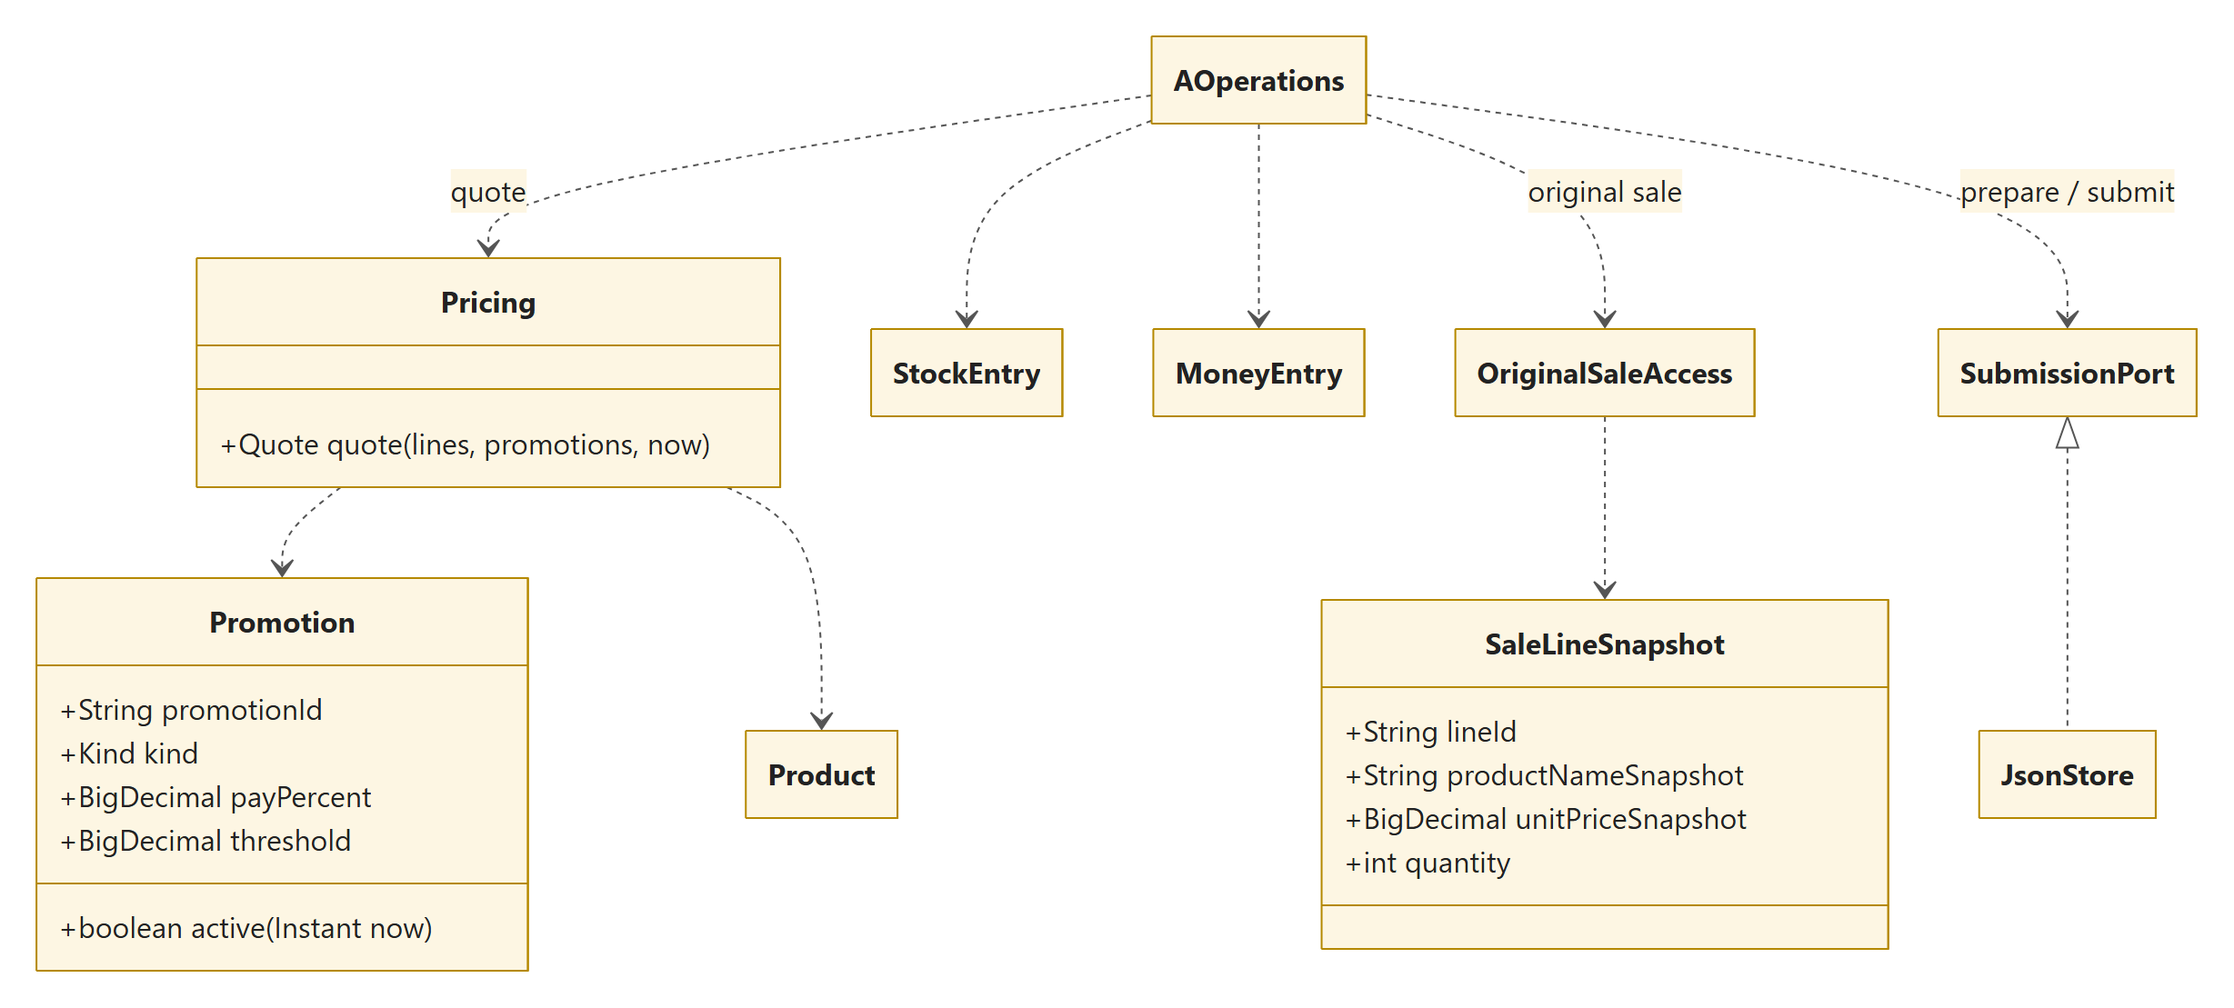
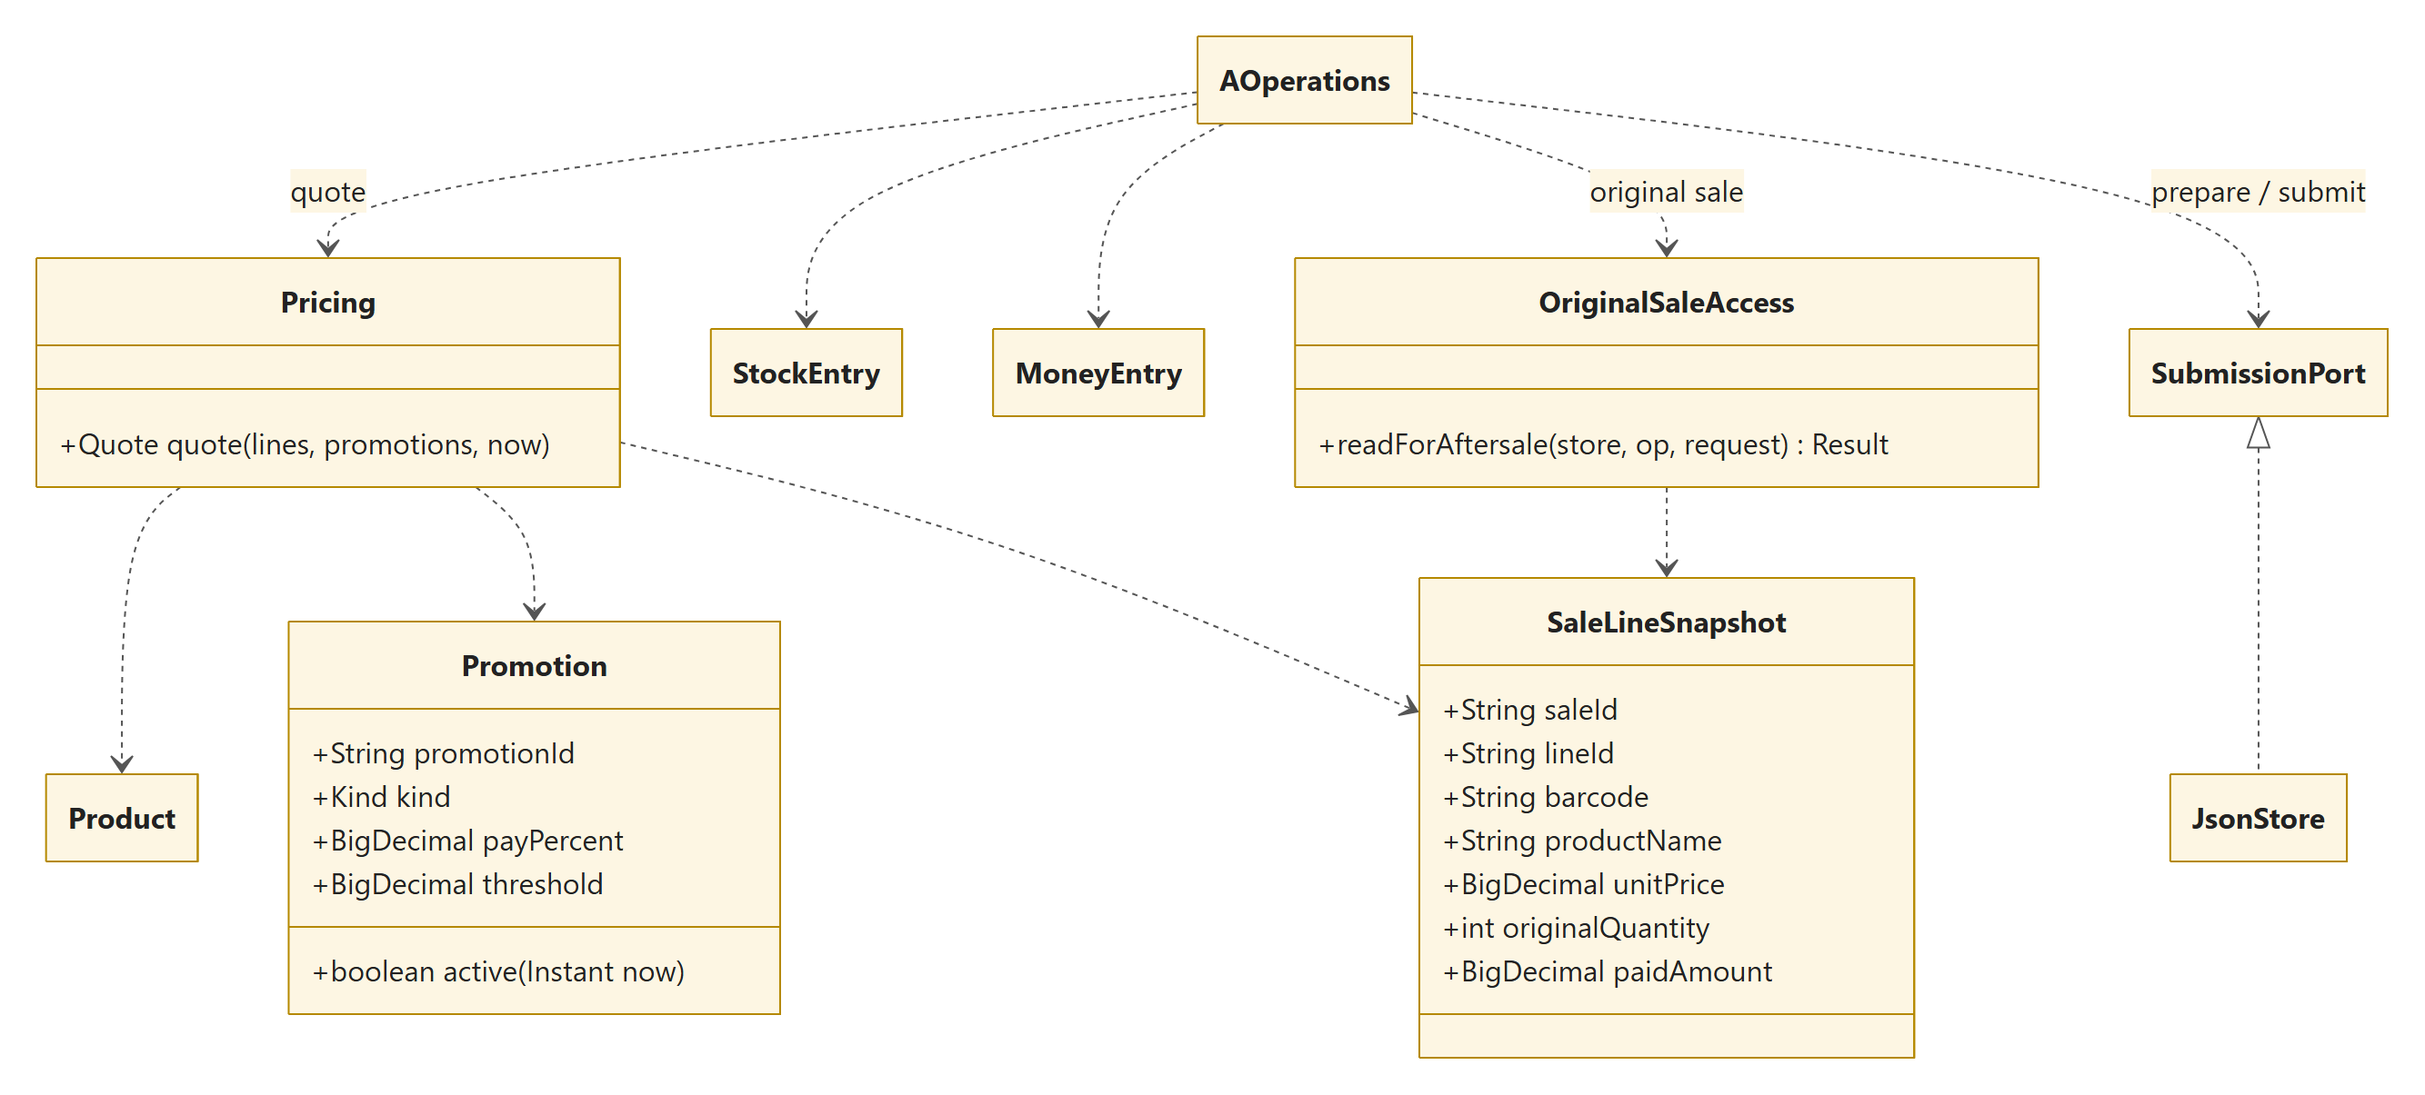
fix: align report diagrams with code and simplify the build entry
- report diagrams 01/02/04/05/07 corrected against the delivered code:
  DocumentHeader timestamps are strings, SaleLineSnapshot fields match the
  record, aftersale shows SharedOperations -> engine(factory)/submission flow
  instead of a non-existent engine orchestration, reversal uses
  EffectiveDependencies.blocker directly and shows the validator template,
  shared figure adds CommitValidator plus the two concrete subclasses.
- docs/README: IF-11 row now states the proposal is historical and implemented.
- pom: Enforcer accepts JDK 17+, exec-maven-plugin declares Main so
  'mvn clean compile exec:java' works; Main accepts JDK >= 17.
- run.cmd: seeds data/snapshot.json from demo preset, builds when missing, runs.
- demo/: tracked preset snapshot (demo accounts manager01/clerk01/admin01).
- README: three-step quick start, JDK 17+, project-root requirement.

diff --git a/src/main/java/nz/ac/aut/pdc/supermarket/app/Main.java b/src/main/java/nz/ac/aut/pdc/supermarket/app/Main.java
@@ -39,7 +39,7 @@ public final class Main {
             }
             // Exercises the packaged JSON dependency as well as the manifest entry point.
             out.println(texts.text("start.banner", Runtime.version().feature(), JsonCodec.tree(JsonCodec.write(Map.of("schemaVersion",1))).path("schemaVersion").asInt()));
-            if (Runtime.version().feature()!=17) throw new IllegalArgumentException("cli.jdk");
+            if (Runtime.version().feature()<17) throw new IllegalArgumentException("cli.jdk");
             if (project==null) project=locateProject();
             if(initialize && (accountsFile!=null || Files.exists(project.resolve("data/snapshot.json"))))
                 throw new IllegalArgumentException("account.existing");

diff --git a/README.md b/README.md
@@ -4,25 +4,27 @@ A single-store offline Java CUI course project. The existing monolith is already
 
 ## Project Demonstration Video
 
-[Watch or download the Project 1 demonstration video](./Project1-Demonstration-Video.mp4) (4 minutes 37 seconds, 1080p).
+[Watch or download the Project 1 demonstration video](./Project1-Demonstration-Video.mp4) (4 minutes 41 seconds, 1080p).
 
 The MP4 includes English narration and burned-in English subtitles; original Chinese development prompts are retained as evidence. It demonstrates system functionality, AI-assisted development and prompt engineering, human review, and the overall code structure. No separate audio or subtitle files are needed.
 
 ## Quick Start
 
-Applies to Windows + JDK 17; full instructions are in [Build and run](#build-and-run) below.
+Applies to Windows + JDK 17 or newer; full instructions are in [Build and run](#build-and-run) below. Run everything from the project root: startup requires `pom.xml`, `README.md` and `docs/` to be present in the working directory.
 
 For Chinese terminal input, configure UTF-8 input/output as shown in the language section below.
 
-1. Make sure `JAVA_HOME` points to JDK 17 (Enforcer rejects Java 8 and other major versions; the `java` on `PATH` is not necessarily 17).
-2. Build: `.\mvnw.cmd -B --no-transfer-progress clean package`
-3. Initialise the accounts once (**a real terminal is required**, interactive input, no default accounts):
-   `& "$env:JAVA_HOME\bin\java.exe" -jar target\supermarket-management-0.1.0-SNAPSHOT-jar-with-dependencies.jar --init-accounts`
-   Follow the prompts to set a username and password for ADMIN/MANAGER/CLERK; once creation finishes you **go straight into the CUI** and can log in immediately.
-4. Start it later: `& "$env:JAVA_HOME\bin\java.exe" -jar target\supermarket-management-0.1.0-SNAPSHOT-jar-with-dependencies.jar`
-5. To check storage recovery and registration validation only, without entering the business flow: append `--check` to the start command; to view the options: append `--help`.
+1. Point `JAVA_HOME` at JDK 17 or newer (the Enforcer rejects Java 8 and older; the `java` on `PATH` is not necessarily the right one). JDK 21 also builds and runs the jar.
+2. One command to start with the bundled demo data:
+   `run.cmd`
+   It seeds `data\snapshot.json` from `demo\preset_snapshot_20261022.json` when no snapshot exists, builds the executable jar if needed, and launches the CUI. Log in with `manager01`, `clerk01` or `admin01`; password `demo1234`.
+3. To build without launching: `.\mvnw.cmd -B --no-transfer-progress clean package`.
+   The template's `mvn clean javafx:run` belongs to Project 2 (GUI); this P1 is a CUI. `mvn clean compile exec:java` also works here because the pom declares the exec plugin and main class.
 
-Note: `--init-accounts` only initialises empty storage, refuses to run when a snapshot already exists, and never overwrites existing accounts; passwords are not echoed and only the SHA-256 hash is stored. IDEs and redirected environments have no console, so use `--accounts <local-credentials.json>` to pre-provision accounts instead. Only the JAR with dependencies can be started on its own; do not use the plain JAR.
+Manual start (after building): `& "$env:JAVA_HOME\bin\java.exe" -jar target\supermarket-management-0.1.0-SNAPSHOT-jar-with-dependencies.jar`.
+To create accounts from scratch instead of using the demo snapshot, run the same jar with `--init-accounts` in a real terminal (interactive, no default accounts); once creation finishes you go straight into the CUI. To check storage recovery and registration validation only, append `--check`; for options, append `--help`.
+
+Note: `--init-accounts` only initialises empty storage, refuses to run when a snapshot already exists, and never overwrites existing accounts; passwords are not echoed and only the SHA-256 hash is stored. IDEs and redirected environments have no console, so use `--accounts <local-credentials.json>` to pre-provision accounts instead. Only the JAR with dependencies can be started on its own; do not use the plain JAR. The demo snapshot contains only the seeded demo accounts and sample business records; delete `data\snapshot.json` to start from an empty store.
 
 ## Reading Order
 
@@ -70,7 +72,7 @@ The repository's `docs/` is the single collaborative master copy of the Spec/PRD
 
 ### Planned Paths and Report Arrangements
 
-Code-style paths in the documents such as `docs/evidence/...`, `docs/design/...`, `docs/decisions.md` or `docs/decisions/...` are all **repository-relative paths**. The existing documents comprise the Spec/PRD/ERD/work-distribution list/shared specification, the four diagram sources under `docs/erd/`, and the already created `docs/design/member_b/` and `docs/evidence/member_b/` (containing B's V1/V2, AI review, design evolution and framework reproduction records); only `docs/decisions/` and `docs/decisions.md` remain planned locations that have not been created yet. Empty evidence files are not created just to make the plan "look complete", and no duplicate path-governance record is added.
+Code-style paths in the documents such as `docs/evidence/...`, `docs/design/...`, `docs/decisions.md` or `docs/decisions/...` are all **repository-relative paths**. The existing documents comprise the Spec/PRD/ERD/work-distribution list/shared specification, the four diagram sources under `docs/erd/`, and the already created `docs/archive/design_member_b/` and `docs/evidence/member_b/` (containing B's V1/V2, AI review, design evolution and framework reproduction records); only `docs/decisions/` and `docs/decisions.md` remain planned locations that have not been created yet. Empty evidence files are not created just to make the plan "look complete", and no duplicate path-governance record is added.
 
 During the working phase the English Spec/PRD/ERD in the repository's `docs/` are the collaborative main line (the corresponding Chinese versions are kept in a designated directory outside the repository); before submission the final report is converted to English and the Chinese working drafts are removed from the submission package/final delivery directory, so the Chinese drafts are not a parallel final report. A Chinese working draft is not a submission report and carries no formal §2.6/§3.7 declaration; the formal declaration is completed and signed by the student only in the English final report, following the template requirements, and a Chinese working draft does not replace it. The English final report uses the English report location under the repository root; the final file name is settled when the report is assembled, and this round adds no report subdirectory and does not change the Canvas arrangement; the repository root may contain English working documents, code and build files.
 
@@ -112,7 +114,7 @@ These summaries only support the necessary traceability and do not replace the c
 
 ## Build and Run
 
-Uses JDK 17 and the repository's single Maven project. The PowerShell 7.6.5 run on 2026-10-21 is a historical verification-environment record; the environment and results re-verified during the 2026-10-22 release wrap-up are in the unified implementation log. The scripts aim to be compatible with Windows PowerShell 5.1 and PowerShell 7. One command reproduces the offline build, all tests, executable-package dependency isolation and a real JAR/CUI smoke test:
+Uses JDK 17 or newer (compiled with `--release 17`) and the repository's single Maven project. The PowerShell 7.6.5 run on 2026-10-21 is a historical verification-environment record; the environment and results re-verified during the 2026-10-22 release wrap-up are in the unified implementation log. The scripts aim to be compatible with Windows PowerShell 5.1 and PowerShell 7. One command reproduces the offline build, all tests, executable-package dependency isolation and a real JAR/CUI smoke test:
 
 ```powershell
 powershell.exe -NoProfile -ExecutionPolicy Bypass -File .\scripts\verify-p1.ps1 -Offline
@@ -136,9 +138,11 @@ if ($taskJdk17) { $env:JAVA_HOME = $taskJdk17 }
 & "$env:JAVA_HOME/bin/java.exe" "-Dfile.encoding=UTF-8" -jar target/supermarket-management-0.1.0-SNAPSHOT-jar-with-dependencies.jar
 ```
 
-If the temporary JDK above is not found, choose an installed JDK 17; Enforcer rejects Java 8/other major versions, and the build is not changed to Java 8. The first download of project dependencies may need the network, business runs are offline; add `--offline` once the cache is complete. The platform actually tested this time is Windows; the commands have not been executed on other platforms.
+If the temporary JDK above is not found, choose an installed JDK 17 or newer; the Enforcer rejects Java 8 and older, and the build is not changed to Java 8. The first download of project dependencies may need the network, business runs are offline; add `--offline` once the cache is complete. The platform actually tested this time is Windows; the commands have not been executed on other platforms.
 
-The executable package is the `*-jar-with-dependencies.jar` with dependencies, including Jackson; the plain JAR has no embedded dependencies, and starting it on its own must not be treated as verified. The main class is `nz.ac.aut.pdc.supermarket.app.Main`, which looks for the project marker upwards from the executable's location and does not treat the shell's current directory as DATA_ROOT; when moving the executable, use `--project-root <project-root>`. Use `--help` to view the options, and `--check` to actually wire up and run the full snapshot validation without committing business operations.
+For a one-command start, `run.cmd` seeds the demo snapshot when `data\snapshot.json` is absent, builds the executable jar when missing, and launches the CUI. The template's `mvn clean compile exec:java` also works because the pom declares `exec-maven-plugin` with `mainClass` set; `mvn clean javafx:run` belongs to the Project 2 GUI and is not part of this P1.
+
+The executable package is the `*-jar-with-dependencies.jar` with dependencies, including Jackson; the plain JAR has no embedded dependencies, and starting it on its own must not be treated as verified. The main class is `nz.ac.aut.pdc.supermarket.app.Main`, which looks for the project root upwards from the executable's location (the root must contain `pom.xml`, `README.md` and `docs/`) and does not treat the shell's current directory as DATA_ROOT; when moving the executable, use `--project-root <project-root>`. Use `--help` to view the options, and `--check` to actually wire up and run the full snapshot validation without committing business operations.
 
 A non-interactive start can use `--accounts <local-credentials.json>` to initialise empty storage: the array element fields are `accountId/username/passwordHash/role`, the roles are ADMIN/MANAGER/CLERK, and the hashes are compatible with the existing B Sha256PasswordHasher. It only initialises empty storage and cannot be used to overwrite existing accounts; keep the local file in an ignored directory such as `.local/`, and do not upload passwords, hashes or runtime data. With no accounts, the system clearly reports that login is not configured. `--init-accounts` refuses when a snapshot already exists; aborting password/username input does not install a half set of accounts.
 

diff --git a/docs/design/report/README.md b/docs/design/report/README.md
@@ -10,10 +10,15 @@ earlier design-only class diagram). Each figure has a Mermaid source (`*.mmd`) a
 | 01 | `01_catalog_opening_receipt.png` | Product/opening, receipt create-correct-review, attachments, document header/line, submission port | §3.5.1 catalog and receiving |
 | 02 | `02_sale_promotion.png` | Promotion/pricing, sale candidate, sale line snapshot, stock and money entries | §3.5.2 sales and promotions |
 | 03 | `03_stock.png` | Stock business, validator/assembler, stock service, loss workflow, balances and positions | §3.5.3 stock maintenance |
-| 04 | `04_aftersale.png` | Aftersale engine, commit/integrity validators, draft lifecycle (create/read/cancel/delete), redemption and replacement | §3.5.4 after-sales |
-| 05 | `05_reversal.png` | Reversal command, change-set assembly, dependency checking and effective dependencies | §3.5.5 reversal |
+| 04 | `04_aftersale.png` | Shared operations entry, aftersale engine as service factory, aftersale service, submission service, change-set assembler, commit/integrity validators, draft lifecycle, redemption/replacement/quota view | §3.5.4 after-sales |
+| 05 | `05_reversal.png` | Reversal command, reconstructing-validator template and concrete validator, effective-dependency blocker, change-set assembly | §3.5.5 reversal |
 | 06 | `06_query_auth_cui.png` | Query service and views, local authentication, credential store, identity resolver, roles, CUI entry | §3.5.6 query, authentication and UI |
-| 07 | `07_shared_persistence.png` | Submission port, reconstructing validator template, working copy, change set, submission time, JSON store, attachment store, draft deletion guard | §3.5.7 shared submission and persistence |
+| 07 | `07_shared_persistence.png` | Submission port, `CommitValidator` interface, reconstructing-validator template with its two concrete subclasses, working copy, change set, submission time, JSON store | §3.5.7 shared submission and persistence |
+
+Five further classes implement `SubmissionPort.CommitValidator` directly (`SharedStockCommitValidator`,
+`LossWorkflow`, `AftersaleCommitValidator`, `AftersaleDraftValidator`,
+`AftersaleDraftDeletionValidator`); they are omitted from figure 07 to keep the
+template-method story readable and are listed in `design/final/system.mmd`.
 
 ## Rendering
 

diff --git a/docs/Maven_Framework.md b/docs/Maven_Framework.md
@@ -4,7 +4,7 @@
 
 ## 2026-10-20 历史底座：范围与文件
 
-- `pom.xml`：单一Maven项目、Java release 17、构建/报告UTF-8、JUnit 4.13.2、Jackson databind 2.21.2；编译器、资源、测试和JAR插件固定版本。Enforcer拒绝非JDK17构建。
+- `pom.xml`：单一Maven项目、Java release 17、构建/报告UTF-8、JUnit 4.13.2、Jackson databind 2.21.2；编译器、资源、测试和JAR插件固定版本。Enforcer拒绝低于JDK17的构建（JDK17及以上均可）。
 - `mvnw`、`mvnw.cmd`、`.mvn/wrapper/maven-wrapper.properties`：官方Maven Wrapper 3.3.4，Maven 3.9.11，分发文件SHA-256校验；无需系统安装Maven。脚本来自官方only-script分发，不包含Wrapper JAR。
 - `src/main/java/`：标准业务源码位置，当时只用`.gitkeep`保留空目录；包所有权见[交接包§2.2](./process/Handoff_Package_For_B.md#22-代码包与公共类型边界)，领域类与接口待设计，不在底座阶段批量创建空类/空接口。
 - `src/test/java/nz/ac/aut/pdc/build/FrameworkSmokeTest.java`：仅验证JDK17执行、JUnit发现和Jackson中文UTF-8往返；不实现存储、认证或库存等业务。
@@ -23,7 +23,7 @@
 
 Linux/macOS计划用法为`sh ./mvnw --batch-mode --no-transfer-progress clean verify`，本轮未在这些平台执行。首次Wrapper及依赖下载需网络；核心业务离线约束不代表首次工程依赖可凭空获得。缓存齐全后Windows可用`./mvnw.cmd --offline --batch-mode --no-transfer-progress clean verify`。
 
-默认终端若是Java8，不代表项目改用Java8；应选择JDK17。构建文件明确强制JDK17。资源/源码UTF-8与测试JVM文件编码在工程设置，不依赖Windows默认编码。
+默认终端若是Java8，不代表项目改用Java8；应选择JDK17或更高版本。构建文件强制不低于JDK17。资源/源码UTF-8与测试JVM文件编码在工程设置，不依赖Windows默认编码。
 
 ## 2026-10-20 历史验证与交接状态
 

diff --git a/docs/README.md b/docs/README.md
@@ -37,7 +37,7 @@ facts and dates were not changed.
 | `design/report/` | **Current class diagrams for the report** (8 PNG + Mermaid sources, generated from the delivered code) |
 | `design/final/` | Full generated class diagram (`system.mmd`/`system.svg`), abstract-validator detail, type inventory |
 | `design/use_cases/` | P1 use-case diagrams (`use_case_v1.svg`, `use_case_v2.svg`) |
-| `design/IF11_Proposal_A.md` | IF-11 read-and-trace proposal (approved rules, implementation still gated) |
+| `design/IF11_Proposal_A.md` | IF-11 read-and-trace proposal: approved rules, kept as a historical proposal; the delivered flow is implemented in `AftersaleDraftAccess`, `AftersaleDraftService` and `OriginalSaleAccess` |
 | `erd/` | ERD Mermaid sources (common, receipt/stock, sale/promotion, aftersale) |
 | `archive/design_member_b/` | Superseded design set: V1/V2/V2.1 class diagrams, rendered PNGs, design notes, IF-07 draft |
 

diff --git a/demo/README.md b/demo/README.md
@@ -1,0 +1,19 @@
+# Demo preset
+
+`preset_snapshot_20261022.json` is a valid `data/snapshot.json` produced by the
+real application (accounts, products, opening balance, one approved receipt and
+three paid sales). It exists so that a fresh checkout or submission ZIP can start
+with a populated store instead of `No accounts configured`.
+
+| Username | Password | Role |
+|---|---|---|
+| `manager01` | `demo1234` | MANAGER |
+| `clerk01` | `demo1234` | CLERK |
+| `admin01` | `demo1234` | ADMIN |
+
+`run.cmd` copies this file to `data/snapshot.json` when no snapshot exists. To
+start from an empty store, delete `data/snapshot.json` and use `--init-accounts`
+or `--accounts`.
+
+These are demonstration credentials only; they are not defaults and the
+application never creates accounts on its own.
